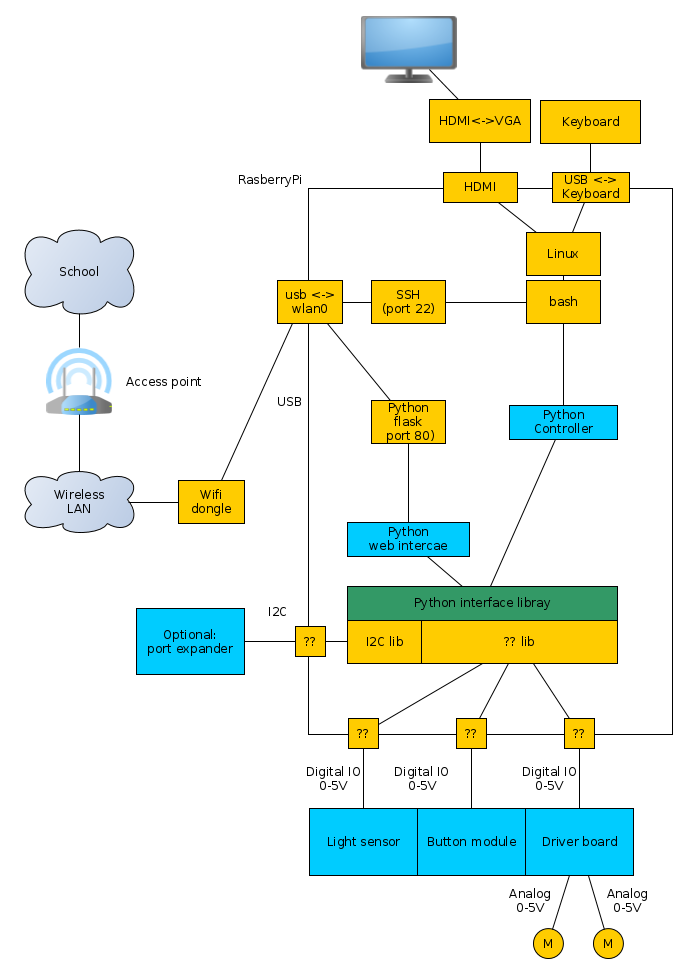
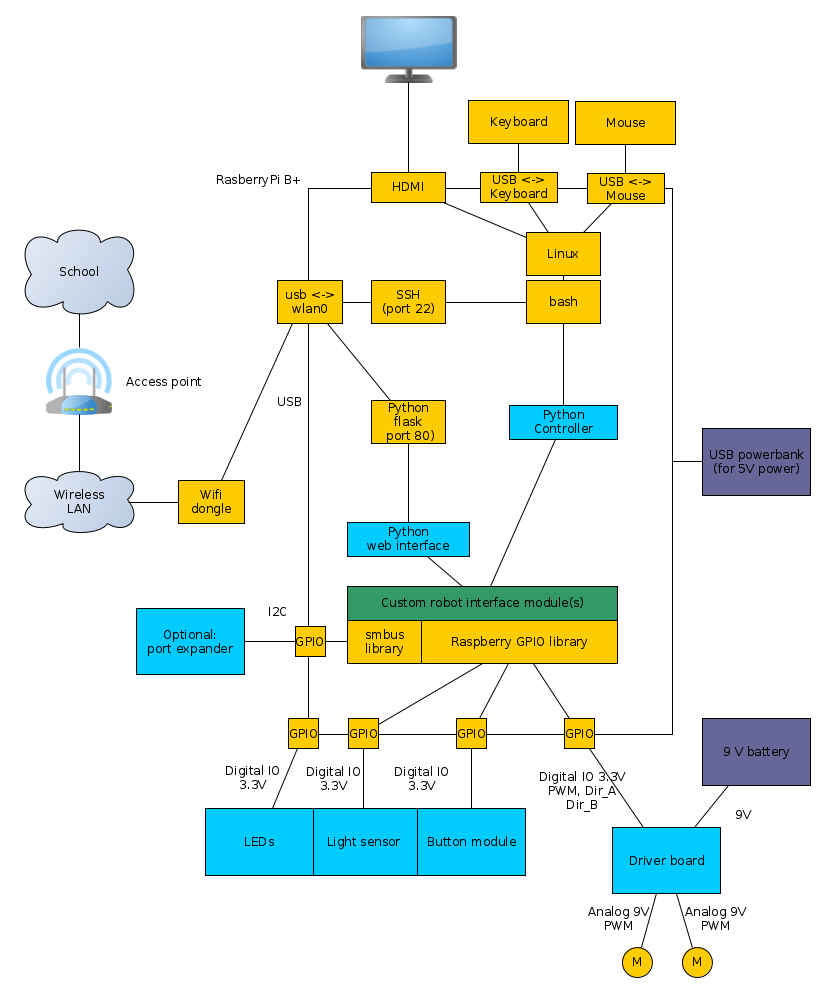
updated design

diff --git a/design/index.md b/design/index.md
@@ -25,8 +25,10 @@ The raspberry will connect to a dedicated LAN set up for that specific purpose. 
 On the inside of the raspberry pi, Linux is running. There will be libraries available to interface to external devices and to build a rudimentary web interface1.
 The student will write their own programs to improve the web interface a the command line control script.
 
-For the robot to function, the raspberry will use the digital IO ports to control and read a light sensor, a button module and a driver board. Some of these schematics will be available beforehand.
-Optionally, it will be possible to create a board with a port expander which, through I2C, is able to control more digital IO ports.
+For the robot to function, the raspberry will use the digital IO ports to control and read a light sensor, a button module and a driver board. Some of these schematics will be available 
+beforehand.
+Optionally, it will be possible to create a board with a port expander which, through I2C, is able to control more digital IO ports. Other expansions on the robot are possible also, e.g.
+custom hardware, programming and external USB devices.
 
 ## Performance
 
@@ -43,7 +45,7 @@ For each group
 * driver board
 * 1 LED sensor board
 * Contact sensor board
-* Optional: port expander
+* Optional: port expander, USB devices or other
 
 In general
 
@@ -71,15 +73,18 @@ See http://i2c.info/i2c-bus-specification
 
 The class network as served by the router/AP.
 
-* ip range 192.168.1.0/24
-* gateway 192.168.1.1
+* IP range 192.168.1.0/24
+* Gateway 192.168.1.1
 * DNS 192.168.1.1
-* DHCP will serve 192.168.1.50-250
+* DHCP will serve 192.168.1.100-200
 
-VLANs are not used.
+VLANs are not used on the subnet.
+
+If multiple access points are used, the second will have the addres 192.168.2.0/24 and so on.
 
 ## Naming convention
 
-Raspberries will be called Raspberry01, Raspberry02, and so on, where the number reflects the group number. This is the name that will appear in the dhcp lease file in the router/AP.
+Raspberries will be called Raspberry01, Raspberry02, and so on, where the number reflects the group number. This is the name that will appear in the dhcp lease file in the router/AP. 
+Since DNS is enabled, it will be the name used for acces instead of the IP address.
 
 Other names are decided by e.g. kernel drivers.
